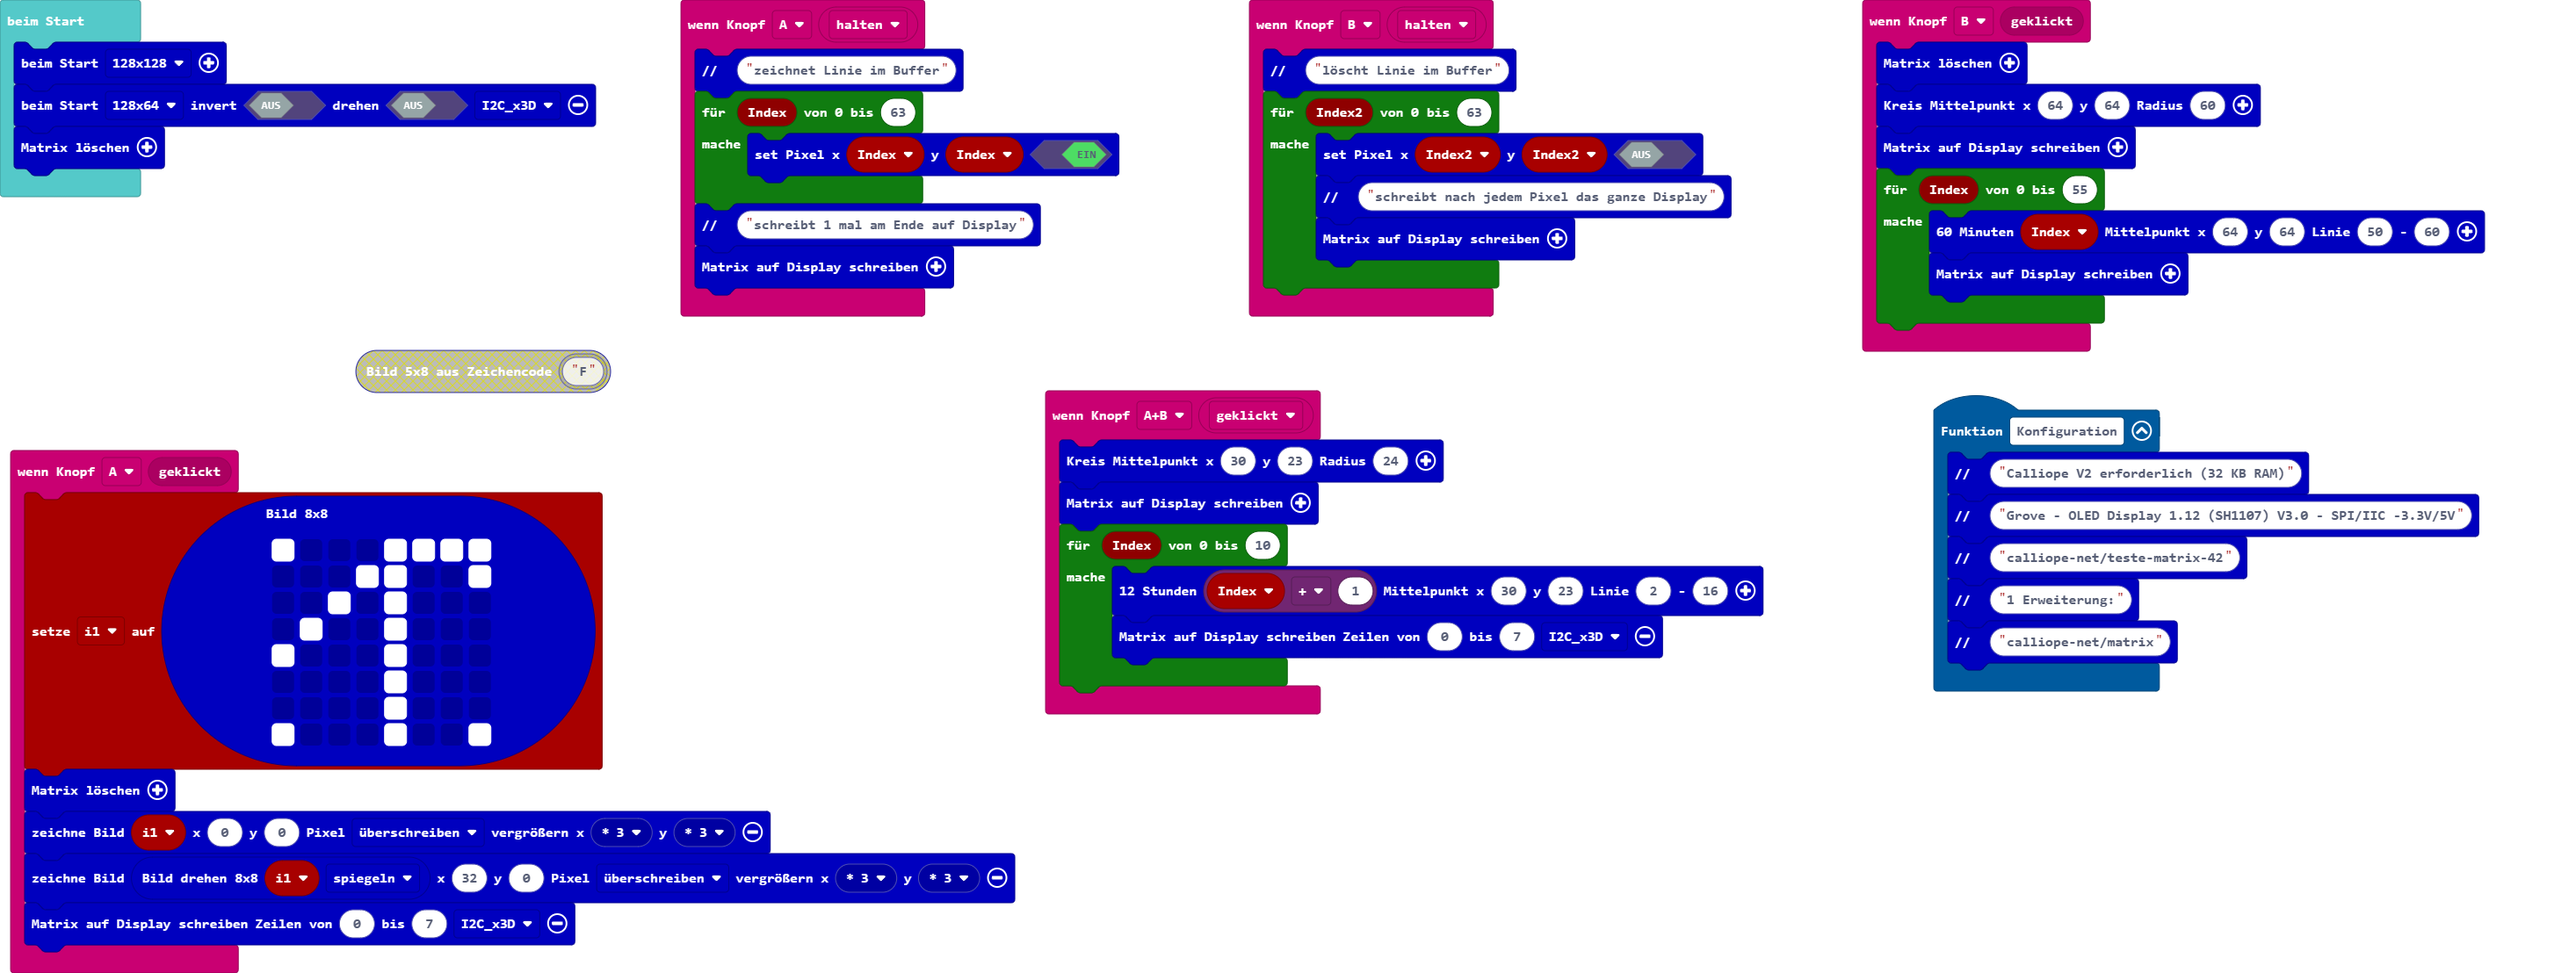
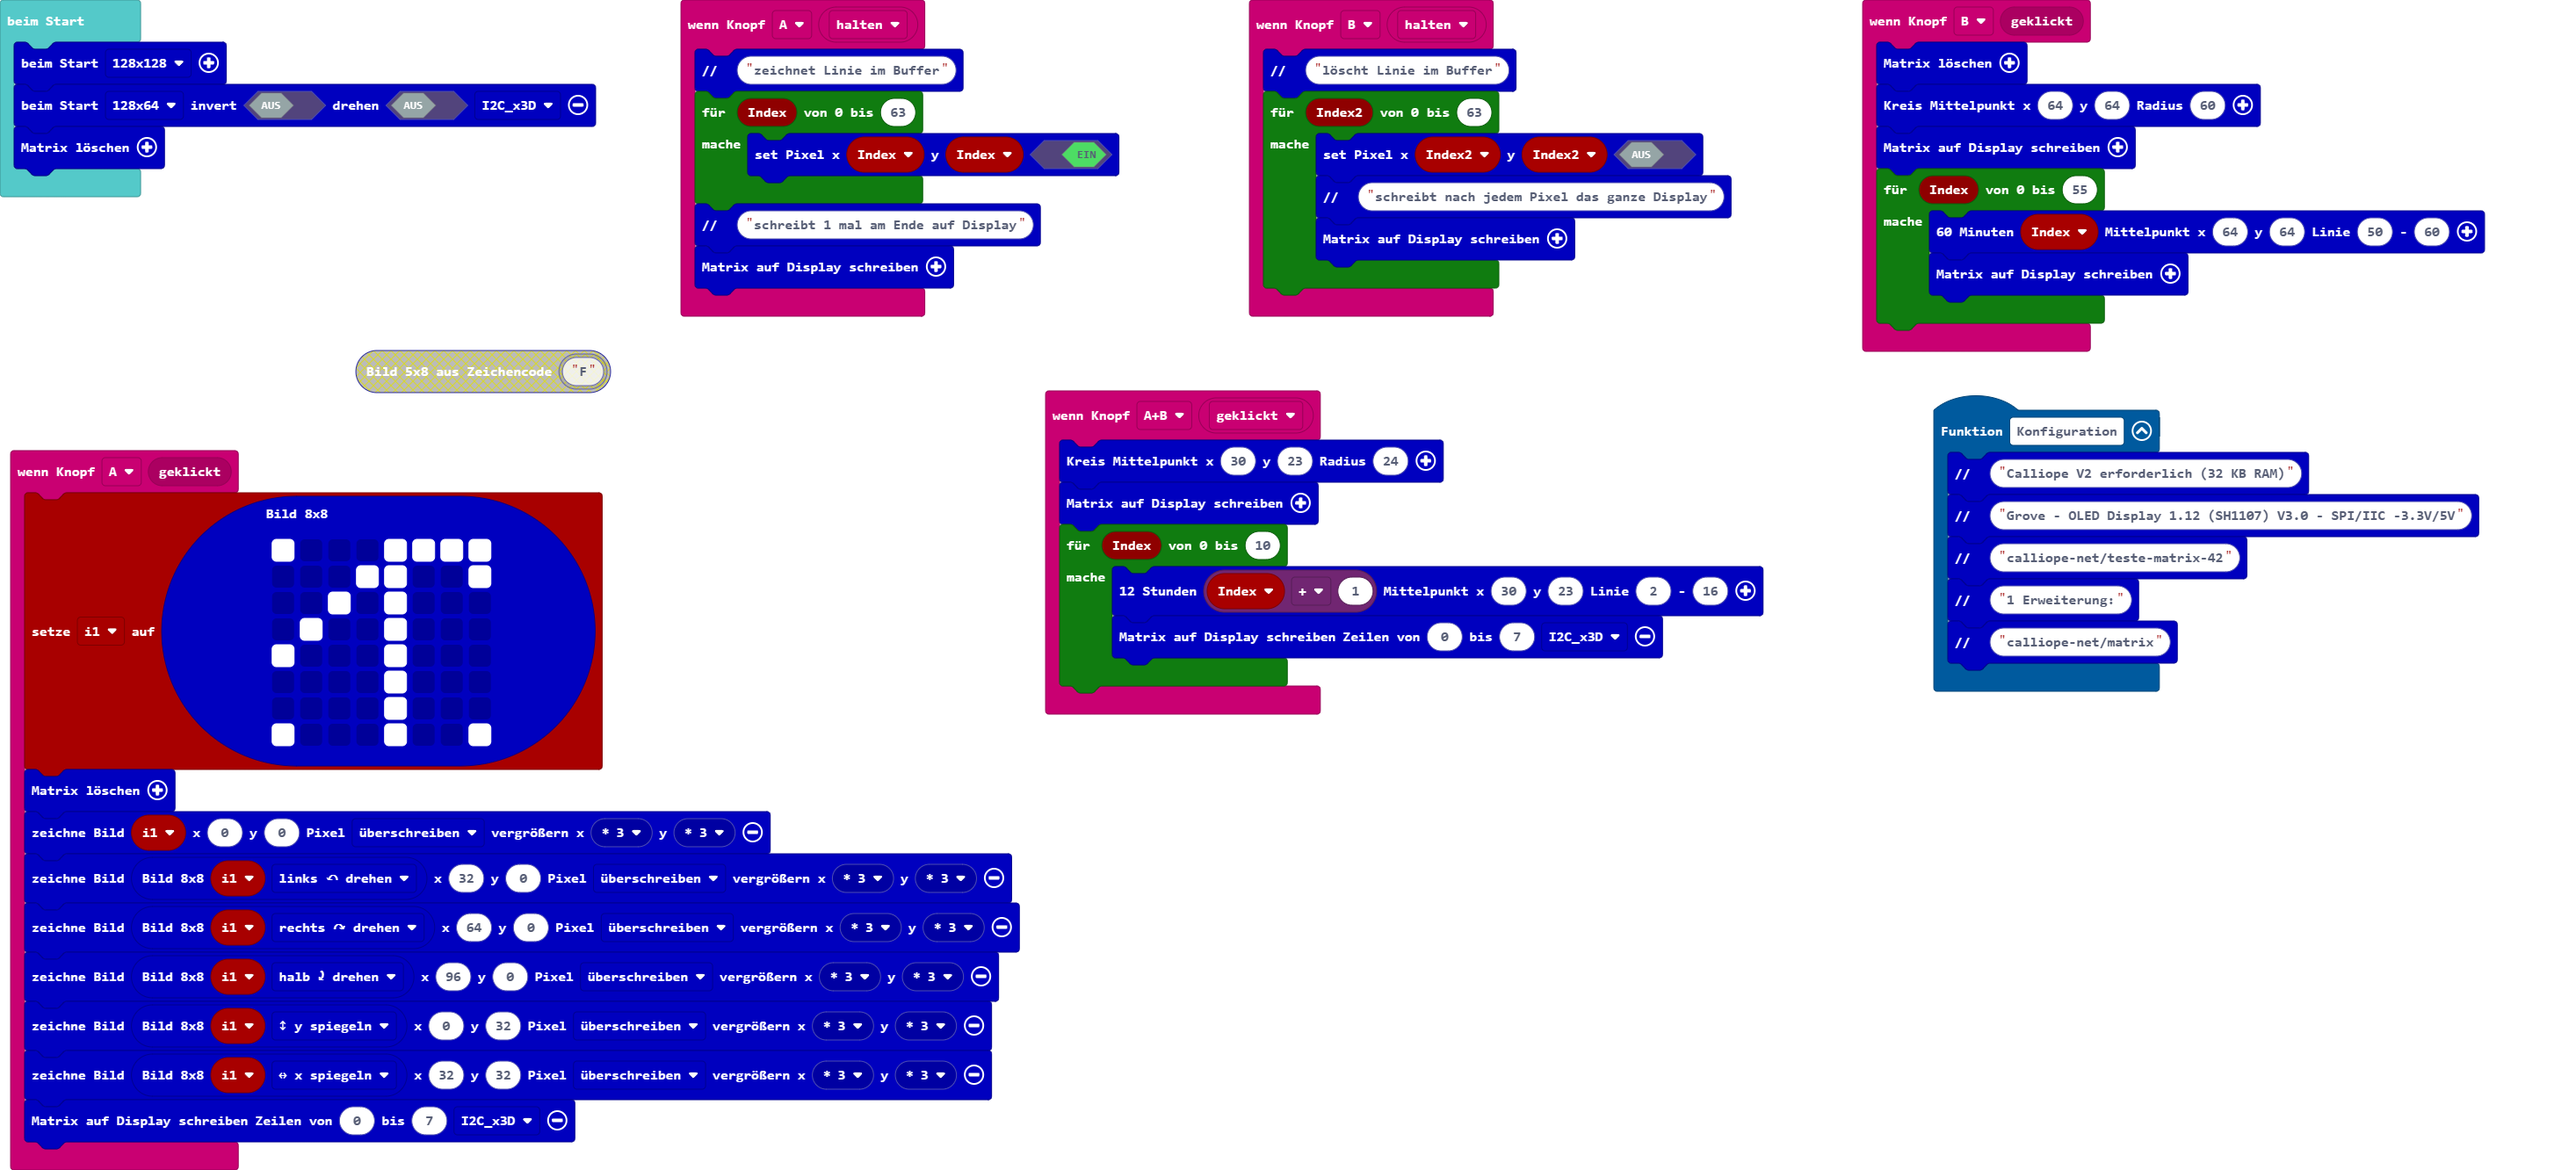
Aktualisiere main.blocks, main.ts

diff --git a/main.ts b/main.ts
@@ -19,7 +19,11 @@ input.onButtonEvent(Button.A, input.buttonEventClick(), function () {
         `)
     matrix.clearMatrix()
     matrix.writeImage(i1, 0, 0, matrix.eTransparent.u, matrix.oled_eFaktor(matrix.eFaktor.f3), matrix.oled_eFaktor(matrix.eFaktor.f3))
-    matrix.writeImage(matrix.imageDrehen(i1, matrix.eZeichenDrehen.spiegeln), 32, 0, matrix.eTransparent.u, matrix.oled_eFaktor(matrix.eFaktor.f3), matrix.oled_eFaktor(matrix.eFaktor.f3))
+    matrix.writeImage(matrix.imageDrehen(i1, matrix.eZeichenDrehen.links), 32, 0, matrix.eTransparent.u, matrix.oled_eFaktor(matrix.eFaktor.f3), matrix.oled_eFaktor(matrix.eFaktor.f3))
+    matrix.writeImage(matrix.imageDrehen(i1, matrix.eZeichenDrehen.rechts), 64, 0, matrix.eTransparent.u, matrix.oled_eFaktor(matrix.eFaktor.f3), matrix.oled_eFaktor(matrix.eFaktor.f3))
+    matrix.writeImage(matrix.imageDrehen(i1, matrix.eZeichenDrehen.halb), 96, 0, matrix.eTransparent.u, matrix.oled_eFaktor(matrix.eFaktor.f3), matrix.oled_eFaktor(matrix.eFaktor.f3))
+    matrix.writeImage(matrix.imageDrehen(i1, matrix.eZeichenDrehen.yspiegeln), 0, 32, matrix.eTransparent.u, matrix.oled_eFaktor(matrix.eFaktor.f3), matrix.oled_eFaktor(matrix.eFaktor.f3))
+    matrix.writeImage(matrix.imageDrehen(i1, matrix.eZeichenDrehen.xspiegeln), 32, 32, matrix.eTransparent.u, matrix.oled_eFaktor(matrix.eFaktor.f3), matrix.oled_eFaktor(matrix.eFaktor.f3))
     matrix.writeDisplay(0, 7, matrix.eI2C.I2C_x3D)
 })
 input.onButtonEvent(Button.B, input.buttonEventClick(), function () {
